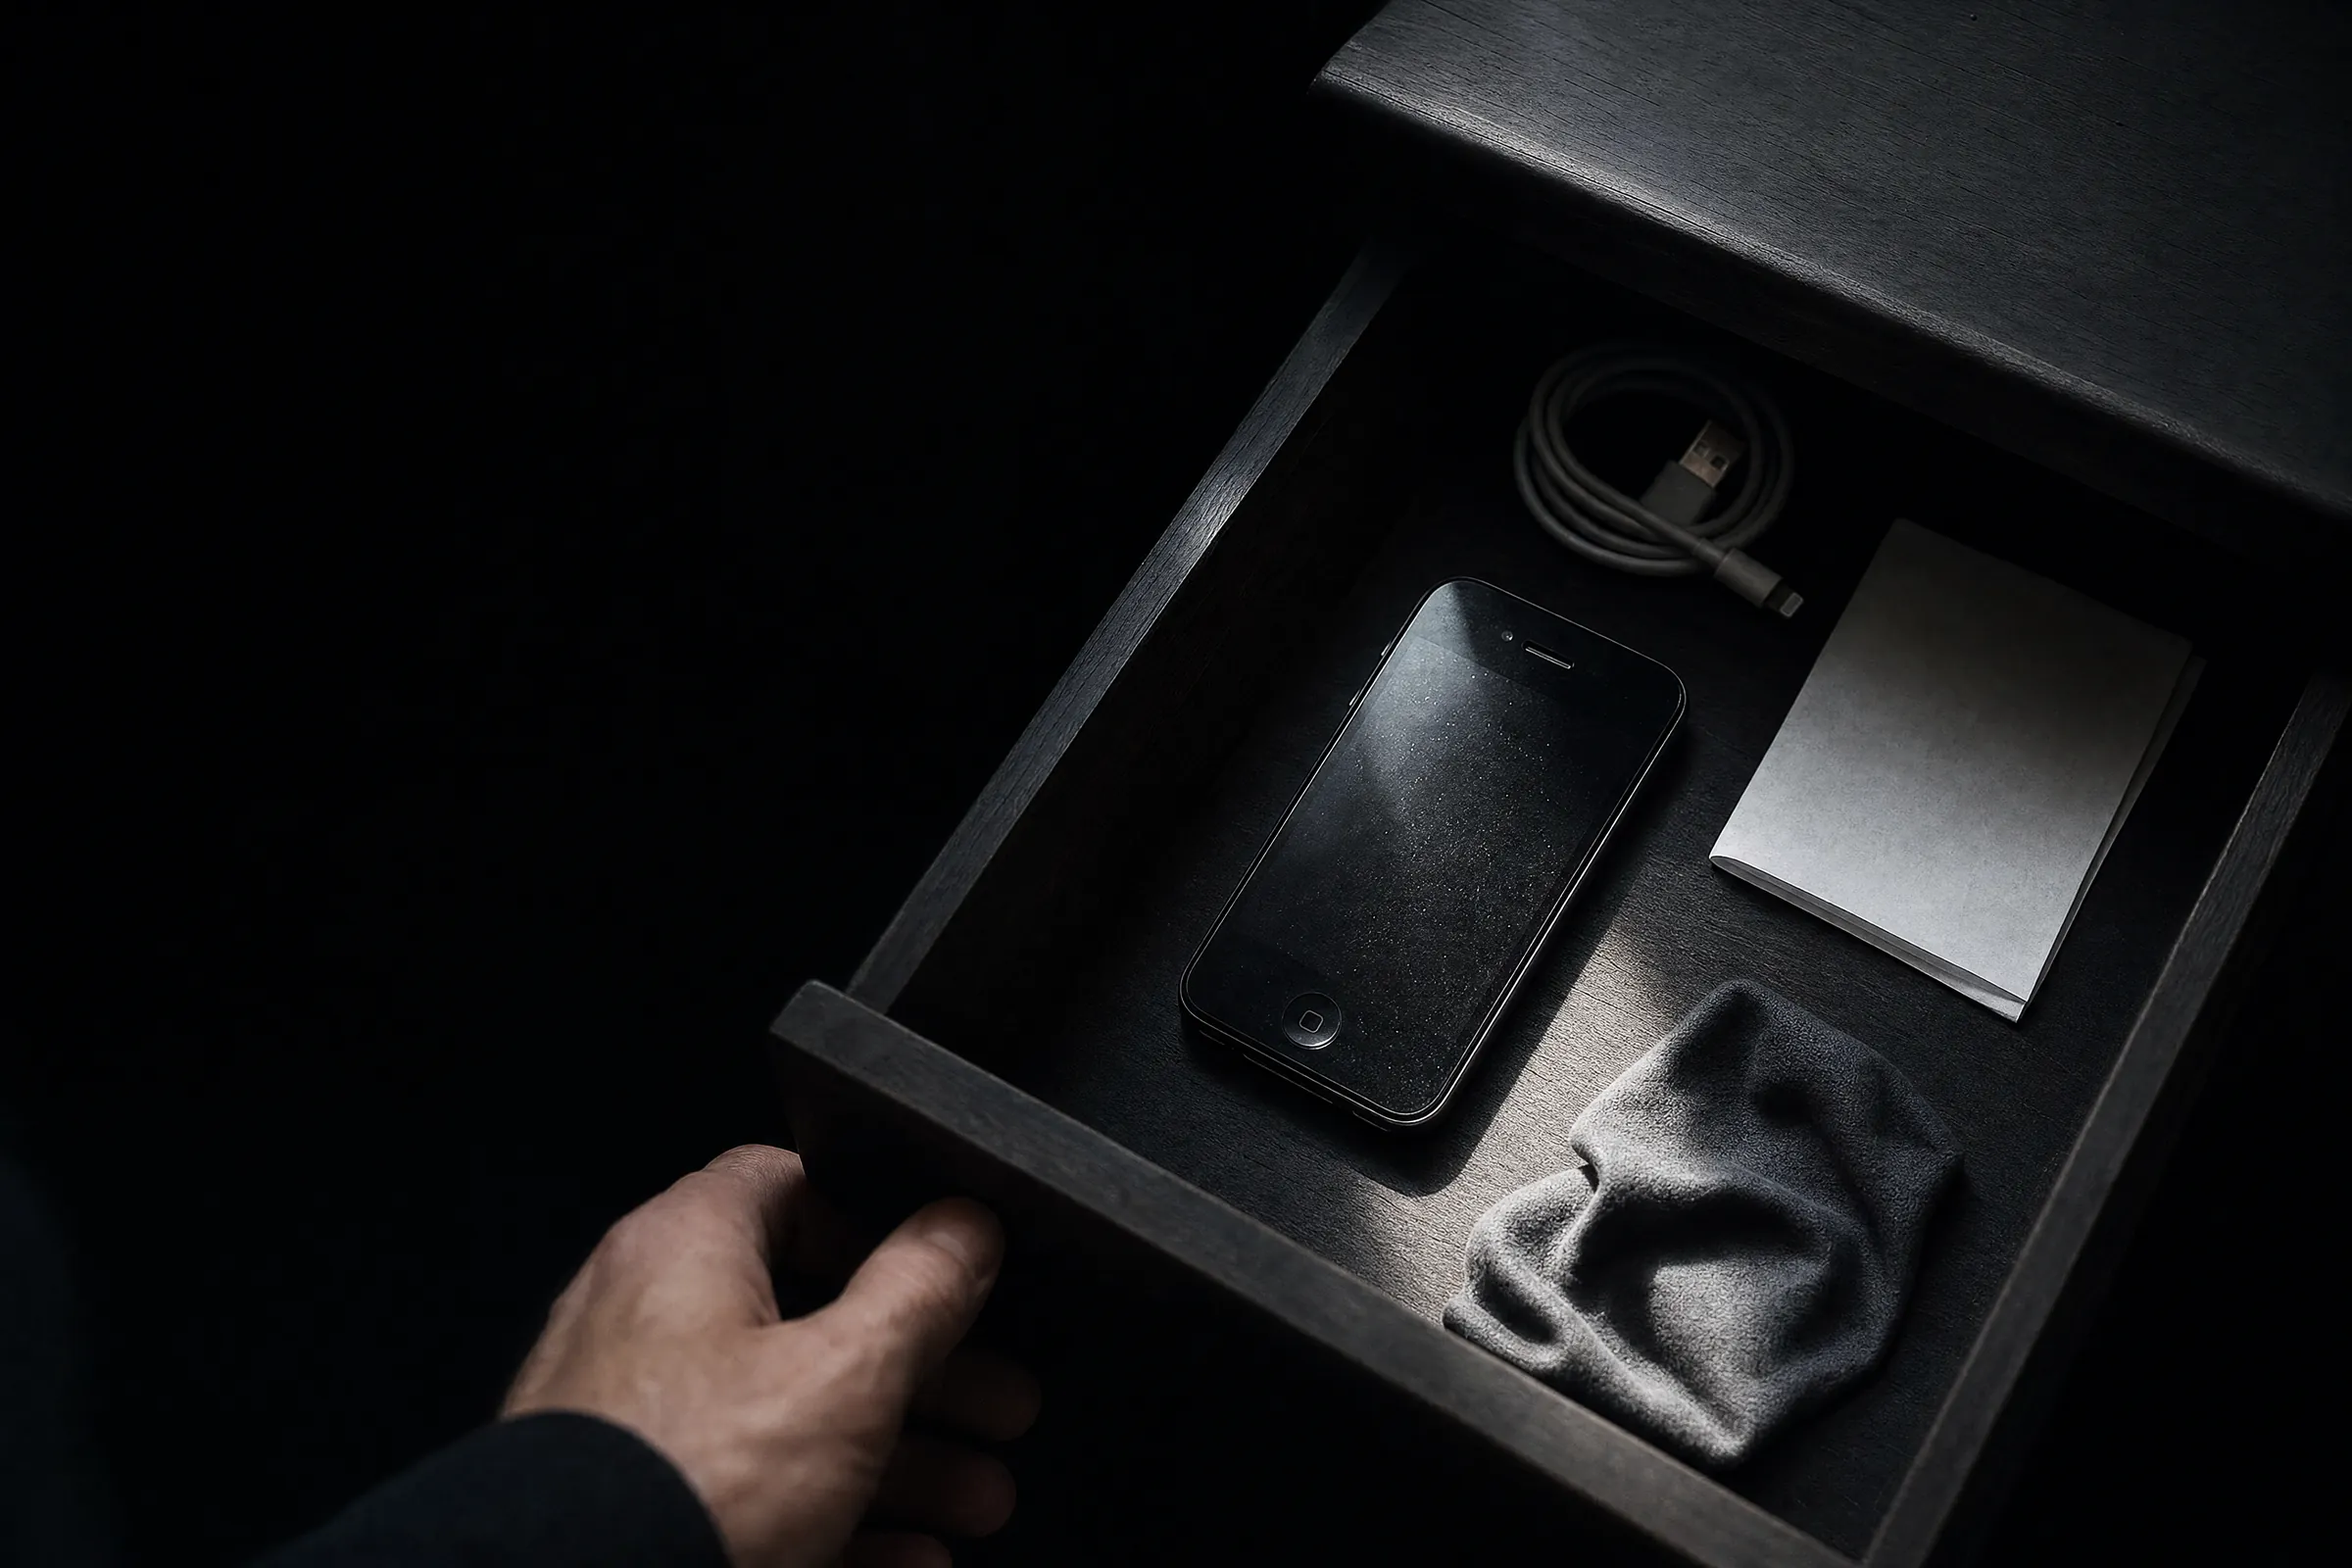
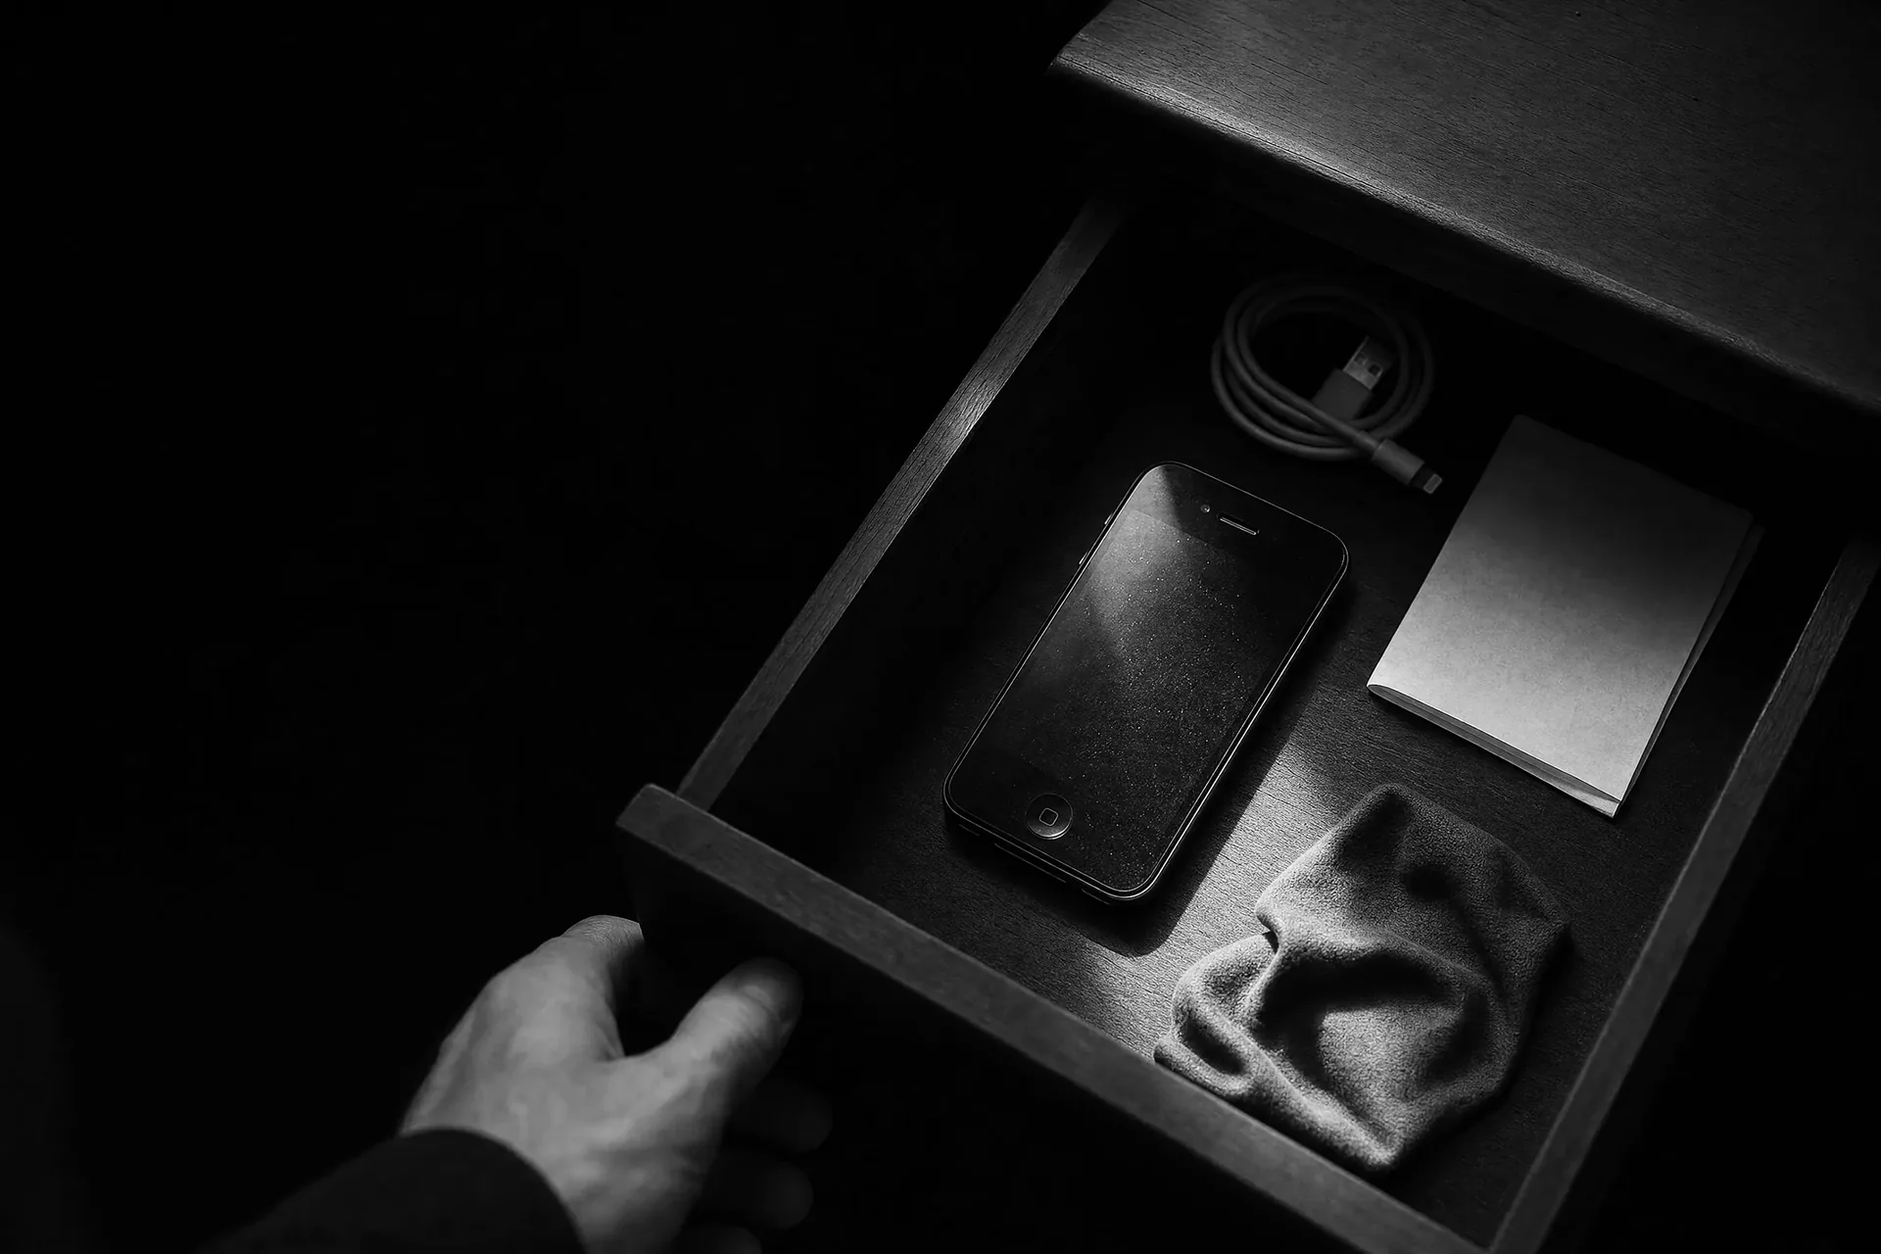
the budget was charging a phone for a clip only a laptop asks for
Two separate things, and the second one is most of the space.

The photographs first. Every one on this page is painted through a
grayscale filter: the drawer at `grayscale(1)`, the QR phones at 0.95.
The drawer was stored in colour anyway, at 2400px, for a slot no wider
than about 790 CSS pixels. Stored as grey at 1920 it is 131 KB instead
of 191 KB and identical on screen, because the screen was never going to
show the difference: at 1440 it is still oversampled 1.2x at a 2x
device pixel ratio, and 1.6x on a phone at 3x. The og:image and the
apple-touch icon gave up another 11 KB between them for nothing.

Then the arithmetic, which was the real problem. Nobody downloads this
directory. The hero ships a desktop clip and a mobile clip and fetches
exactly one, chosen by media query, and the same goes for the posters.
The budget added up every file and held the sum under 6 MB, which
charged a phone for a 3.1 MB clip only a laptop ever asks for. Measured,
a phone pulls 1.44 MB and a laptop 3.27 MB; the number failing builds
was one no visitor experiences.

Two budgets now. The heaviest single visit, capped at 4.5 MB, which is
the only figure somebody waits for. The repository total, capped at 8,
so a runaway addition still fails even if it lands in a variant nobody's
device picks. The either-or pairing is written down rather than inferred
from filenames, so a new variant nobody adds to that table counts
against the strict budget by default, which is the safe direction to be
[…]

Changed region(s): [[0.25, 0.75, 0.4062, 0.9375], [0.6562, 0.625, 0.7188, 0.7188], [0.625, 0.7188, 0.6562, 0.75]]

diff --git a/test/site-claims.test.ts b/test/site-claims.test.ts
@@ -96,25 +96,97 @@ describe('the site carries its own media', () => {
     }
   });
 
-  it('keeps the vendored media to a weight a phone can open', () => {
-    /* Not a style rule. This page is the first thing somebody on a bad
-     * connection meets, and it is selling them care with their money. */
-    const assets = existsSync('site/src/assets') ? readdirSync('site/src/assets') : [];
-    expect(assets.length).toBeGreaterThan(0);
-    let total = 0;
-    for (const name of assets) {
-      const size = statSync(join('site/src/assets', name)).size;
-      total += size;
-      /* No single image over 400 KB. A photograph that big is a PNG that
-       * should have been a WebP, which is exactly how this started. */
-      if (/\.(png|jpe?g|webp|avif)$/i.test(name)) {
-        expect(size, `${name} is ${(size / 1024).toFixed(0)} KB`).toBeLessThan(400 * 1024);
+  /**
+   * ## What this budget is actually counting
+   *
+   * It used to add up every file in the directory and hold the sum under 6 MB,
+   * with the reason above: the page is the first thing somebody on a bad
+   * connection meets. The reason is right and the arithmetic did not match it.
+   *
+   * **Nobody downloads the directory.** The hero ships a desktop clip and a
+   * mobile clip and fetches exactly one, chosen by media query, and the same
+   * goes for the two posters. So a phone was being charged for a 3.1 MB clip
+   * only a laptop ever asks for. Measured, a phone pulls about 1.5 MB of the
+   * 4.7 MB the old sum was policing, and the number that was failing builds
+   * was a number no visitor ever experiences.
+   *
+   * Two budgets now, because they answer different questions:
+   *
+   * - **The worst single visitor.** Everything every visitor gets, plus the
+   *   larger side of each either-or pair. This is the one with teeth, because
+   *   it is the only one somebody waits for.
+   * - **The repository total.** Looser, and still there: a runaway addition
+   *   should fail even if it lands in a variant nobody's device picks.
+   *
+   * The pairing has to be written down rather than guessed from filenames, so
+   * a new variant that nobody adds here counts against the strict budget by
+   * default. That is the safe direction to be wrong in.
+   */
+  const EITHER_OR: Array<[string, string]> = [
+    ['hero-desktop.mp4', 'hero-mobile.mp4'],
+    ['hero-poster.webp', 'hero-poster-mobile.webp'],
+  ];
+  /* Fetched by a link-preview scraper and by iOS when somebody saves the page
+   * to their home screen. Neither happens during a page load. */
+  const NOT_IN_A_PAGE_LOAD = ['og.jpg', 'apple-touch-icon.png'];
+
+  const mediaFiles = (dir: string) =>
+    (existsSync(dir) ? readdirSync(dir) : [])
+      .filter((name) => /\.(png|jpe?g|webp|avif|gif|mp4|webm|mov|ico)$/i.test(name))
+      .map((name) => ({ name, size: statSync(join(dir, name)).size }));
+
+  const everything = [...mediaFiles('site/src/assets'), ...mediaFiles('site/public')];
+
+  it('found the media to weigh', () => {
+    expect(everything.length).toBeGreaterThan(4);
+    /* A stale pairing silently relaxes the strict budget, which is the one
+     * failure this whole rewrite could introduce. */
+    for (const pair of EITHER_OR) {
+      for (const name of pair) {
+        expect(
+          everything.some((file) => file.name === name),
+          `${name} is in the either-or table but not on disk, so the visitor budget is measuring the wrong set`,
+        ).toBe(true);
       }
     }
-    for (const name of existsSync('site/public') ? readdirSync('site/public') : []) {
-      total += statSync(join('site/public', name)).size;
+  });
+
+  it('never ships a single image bigger than a photograph needs to be', () => {
+    /* A photograph over 400 KB is a PNG that should have been a WebP, which
+     * is exactly how this started: a 10 MB drawer photo and a 4 MB favicon. */
+    for (const { name, size } of everything) {
+      if (!/\.(png|jpe?g|webp|avif)$/i.test(name)) continue;
+      expect(size, `${name} is ${(size / 1024).toFixed(0)} KB`).toBeLessThan(400 * 1024);
     }
-    expect(total, `site media is ${(total / 1048576).toFixed(1)} MB`).toBeLessThan(6 * 1024 * 1024);
+  });
+
+  it('keeps what one visitor actually downloads to a weight a phone can open', () => {
+    const eitherOr = new Set(EITHER_OR.flat());
+    const shared = everything
+      .filter((file) => !eitherOr.has(file.name) && !NOT_IN_A_PAGE_LOAD.includes(file.name))
+      .reduce((sum, file) => sum + file.size, 0);
+    const worstOfEachPair = EITHER_OR.reduce((sum, pair) => {
+      const sizes = pair.map((name) => everything.find((file) => file.name === name)?.size ?? 0);
+      return sum + Math.max(...sizes);
+    }, 0);
+    const worst = shared + worstOfEachPair;
+    /* 4.5 MB, and the shape of that number matters: 3.1 MB of it is the
+     * desktop hero clip, which cannot be made smaller. The masters were never
+     * committed, only the already-encoded files, so re-encoding is a second
+     * generation of loss rather than a saving, and the short keyframe interval
+     * that the scrubbing depends on is most of what it costs. So the real
+     * headroom for anything new is the megabyte and a half above it, and the
+     * number a phone lives with is far lower: it takes the 1.3 MB clip, which
+     * puts a whole visit around 1.5 MB. */
+    expect(
+      worst,
+      `the heaviest single visit is ${(worst / 1048576).toFixed(2)} MB`,
+    ).toBeLessThan(4.5 * 1024 * 1024);
+  });
+
+  it('keeps the whole vendored set from growing without anybody noticing', () => {
+    const total = everything.reduce((sum, file) => sum + file.size, 0);
+    expect(total, `site media is ${(total / 1048576).toFixed(2)} MB`).toBeLessThan(8 * 1024 * 1024);
   });
 
   it('never sets a caching header twice for the same file', () => {

diff --git a/site/src/assets/README.md b/site/src/assets/README.md
@@ -18,14 +18,14 @@ changed file gets a new name rather than a stale cache.
 
 ## Why they are small
 
-The originals totalled **30.3 MB**. The current set is **4.9 MB**, and nothing
+The originals totalled **30.3 MB**. The current set is **4.6 MB**, and nothing
 visible was given up.
 
 | | Was | Is |
 | --- | --- | --- |
-| favicon | 4.0 MB PNG, 2048x2048 | 653 B `.ico` at 16/32/48, plus a 26 KB apple-touch icon |
-| og:image | 2.3 MB PNG, 2048x1360 | 84 KB JPEG at 1200x630, the size the spec asks for |
-| drawer photo | 10.2 MB PNG, 3504x2336 | 191 KB WebP at 2400 wide |
+| favicon | 4.0 MB PNG, 2048x2048 | 653 B `.ico` at 16/32/48, plus a 24 KB apple-touch icon |
+| og:image | 2.3 MB PNG, 2048x1360 | 75 KB JPEG at 1200x630, the size the spec asks for |
+| drawer photo | 10.2 MB PNG, 3504x2336 | 131 KB grey WebP at 1920 wide |
 | QR phones photo | 6.4 MB PNG, 3840x2160 | 58 KB WebP at 2400 wide |
 | hero clip, desktop | 5.5 MB | 3.1 MB |
 | hero clip, mobile | 2.1 MB | 1.3 MB |
@@ -65,10 +65,48 @@ ffmpeg -i in.mp4 -an -c:v libx264 -preset slow -crf 25 \
 
 Measured against the originals at SSIM 0.996, which is visually lossless.
 
+## The budget, and what it counts
+
+**Nobody downloads this directory.** The hero ships a desktop clip and a mobile
+clip and fetches exactly one, chosen by media query, and the same goes for the
+two posters. The budget used to add up every file and hold the sum under 6 MB,
+which charged a phone for a 3.1 MB clip only a laptop ever asks for.
+
+So there are two numbers now, and they answer different questions:
+
+| | Now | Cap |
+| --- | --- | --- |
+| A phone's whole visit | 1.44 MB | |
+| **A laptop's whole visit** | **3.27 MB** | **4.5 MB** |
+| The repository total | 4.63 MB | 8 MB |
+| Any single image | | 400 KB |
+
+The strict cap is the laptop one, because it is the only figure somebody waits
+for. The shape of it matters: **3.1 MB of that 3.27 MB is the desktop hero
+clip, and it cannot be made smaller.** Only the already-encoded files were ever
+committed, never the masters, so re-encoding is a second generation of loss
+rather than a saving, and the short keyframe interval the scrubbing depends on
+is most of what it costs. The real headroom for anything new is the megabyte
+above it.
+
+The either-or pairing is written down in the test rather than inferred from
+filenames, so a new variant nobody adds to that table counts against the strict
+budget by default. That is the safe direction to be wrong in.
+
+## Every photograph here is painted in grey
+
+`.drawer-section img` is `filter: grayscale(1)` and `.qr-language img` is
+`grayscale(0.95)`, so the browser throws the color away before you see it.
+The drawer photo was stored in color anyway, at 2400px, for a slot no wider
+than about 790 CSS pixels. Stored as grey at 1920 it is **131 KB instead of
+191 KB**, and identical on screen because the screen was never going to show
+the difference. Do the same with anything new: convert to `L`, size it to
+about twice its widest real slot, and let the CSS do what it was going to do.
+
 ## If you add media here
 
-`test/site-claims.test.ts` will fail the build if any image goes over 400 KB,
-if the whole set goes over 6 MB, if the favicon grows past 50 KB, or if
-anything in the site loads media from a remote host again. Those numbers are
-generous for what this page is. If a new asset genuinely needs to break one,
-change the limit in the same commit and say why.
+`test/site-claims.test.ts` fails the build if any image goes over 400 KB, if a
+single visit goes over 4.5 MB, if the whole set goes over 8 MB, if the favicon
+grows past 50 KB, or if anything loads media from a remote host again. If a new
+asset genuinely needs to break one, change the limit in the same commit and say
+why.
